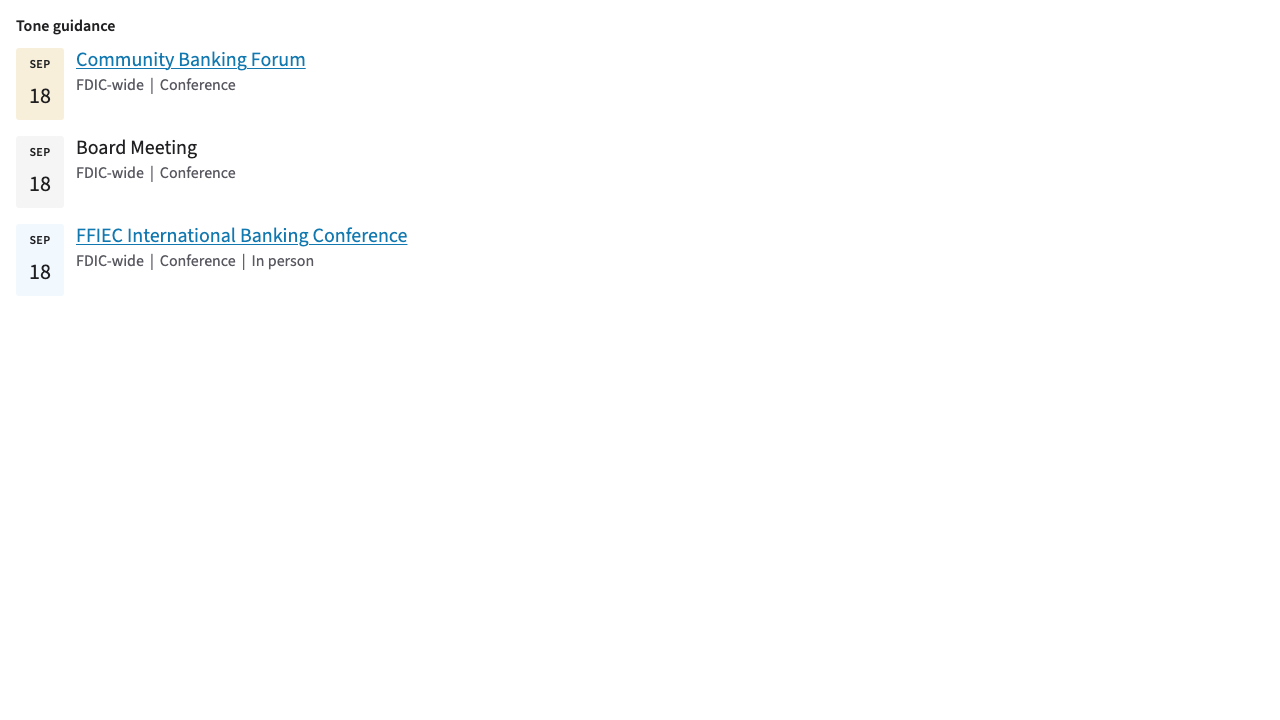
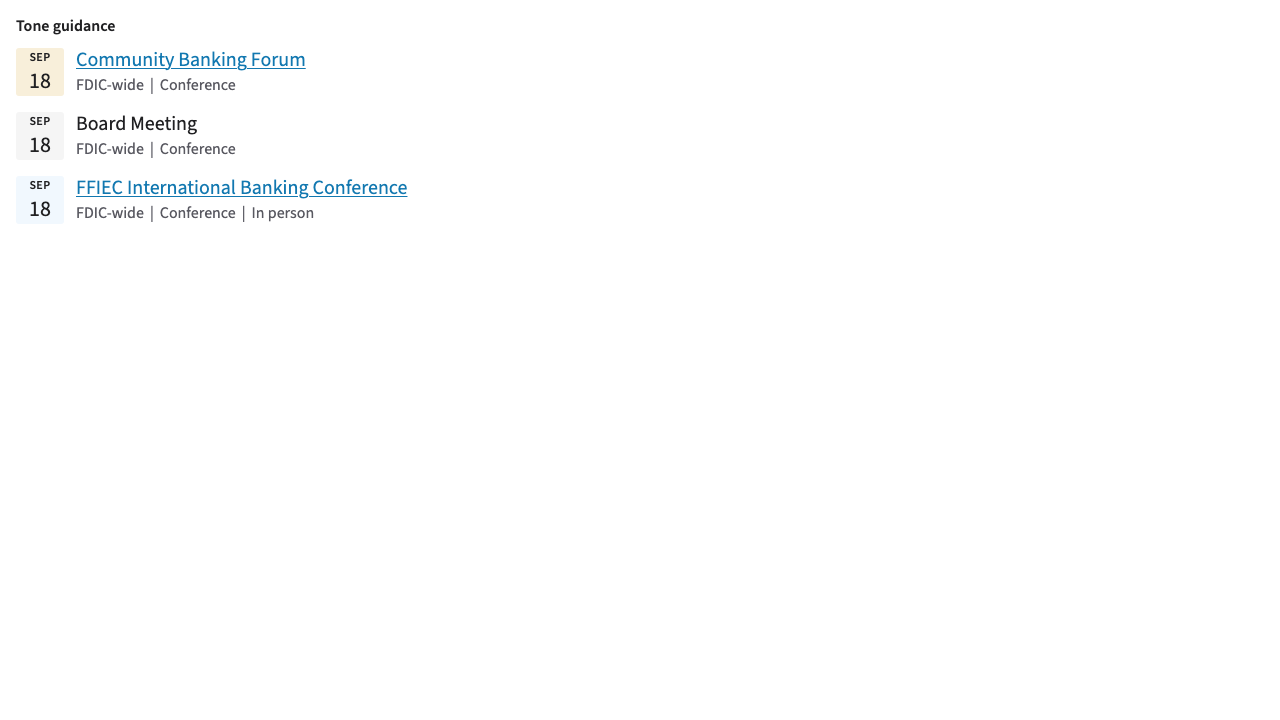
fix(event): match figma date block spacing

Changed region(s): [[0.0, 0.0917, 0.3125, 0.3667], [0.0312, 0.3667, 0.0625, 0.3972]]

diff --git a/packages/components/src/components/fd-event.ts b/packages/components/src/components/fd-event.ts
@@ -83,9 +83,10 @@ export class FdEvent extends LitElement {
       align-items: center;
       justify-content: center;
       inline-size: var(--fd-event-date-size, 48px);
+      block-size: var(--fd-event-date-size, 48px);
       min-inline-size: var(--fd-event-date-size, 48px);
       min-block-size: var(--fd-event-date-size, 48px);
-      padding: var(--fd-event-date-padding-block, 8px)
+      padding: var(--fd-event-date-padding-block, 4px)
         var(--fd-event-date-padding-inline, 4px);
       gap: var(--fd-event-date-gap, 6px);
       border-radius: var(--fd-event-date-radius, 3px);
@@ -155,7 +156,7 @@ export class FdEvent extends LitElement {
       margin: 0;
       font-size: var(--fd-event-month-font-size, 12px);
       font-weight: var(--fd-event-month-font-weight, 600);
-      line-height: var(--fd-event-month-line-height, 1.5);
+      line-height: var(--fd-event-month-line-height, 1);
       letter-spacing: var(--fd-event-month-letter-spacing, 0.03em);
       text-transform: uppercase;
     }
@@ -164,7 +165,7 @@ export class FdEvent extends LitElement {
       margin: 0;
       font-size: var(--fd-event-day-font-size, 22px);
       font-weight: var(--fd-event-day-font-weight, 500);
-      line-height: var(--fd-event-day-line-height, 1.4545);
+      line-height: var(--fd-event-day-line-height, 1);
     }
 
     [part="content"] {
